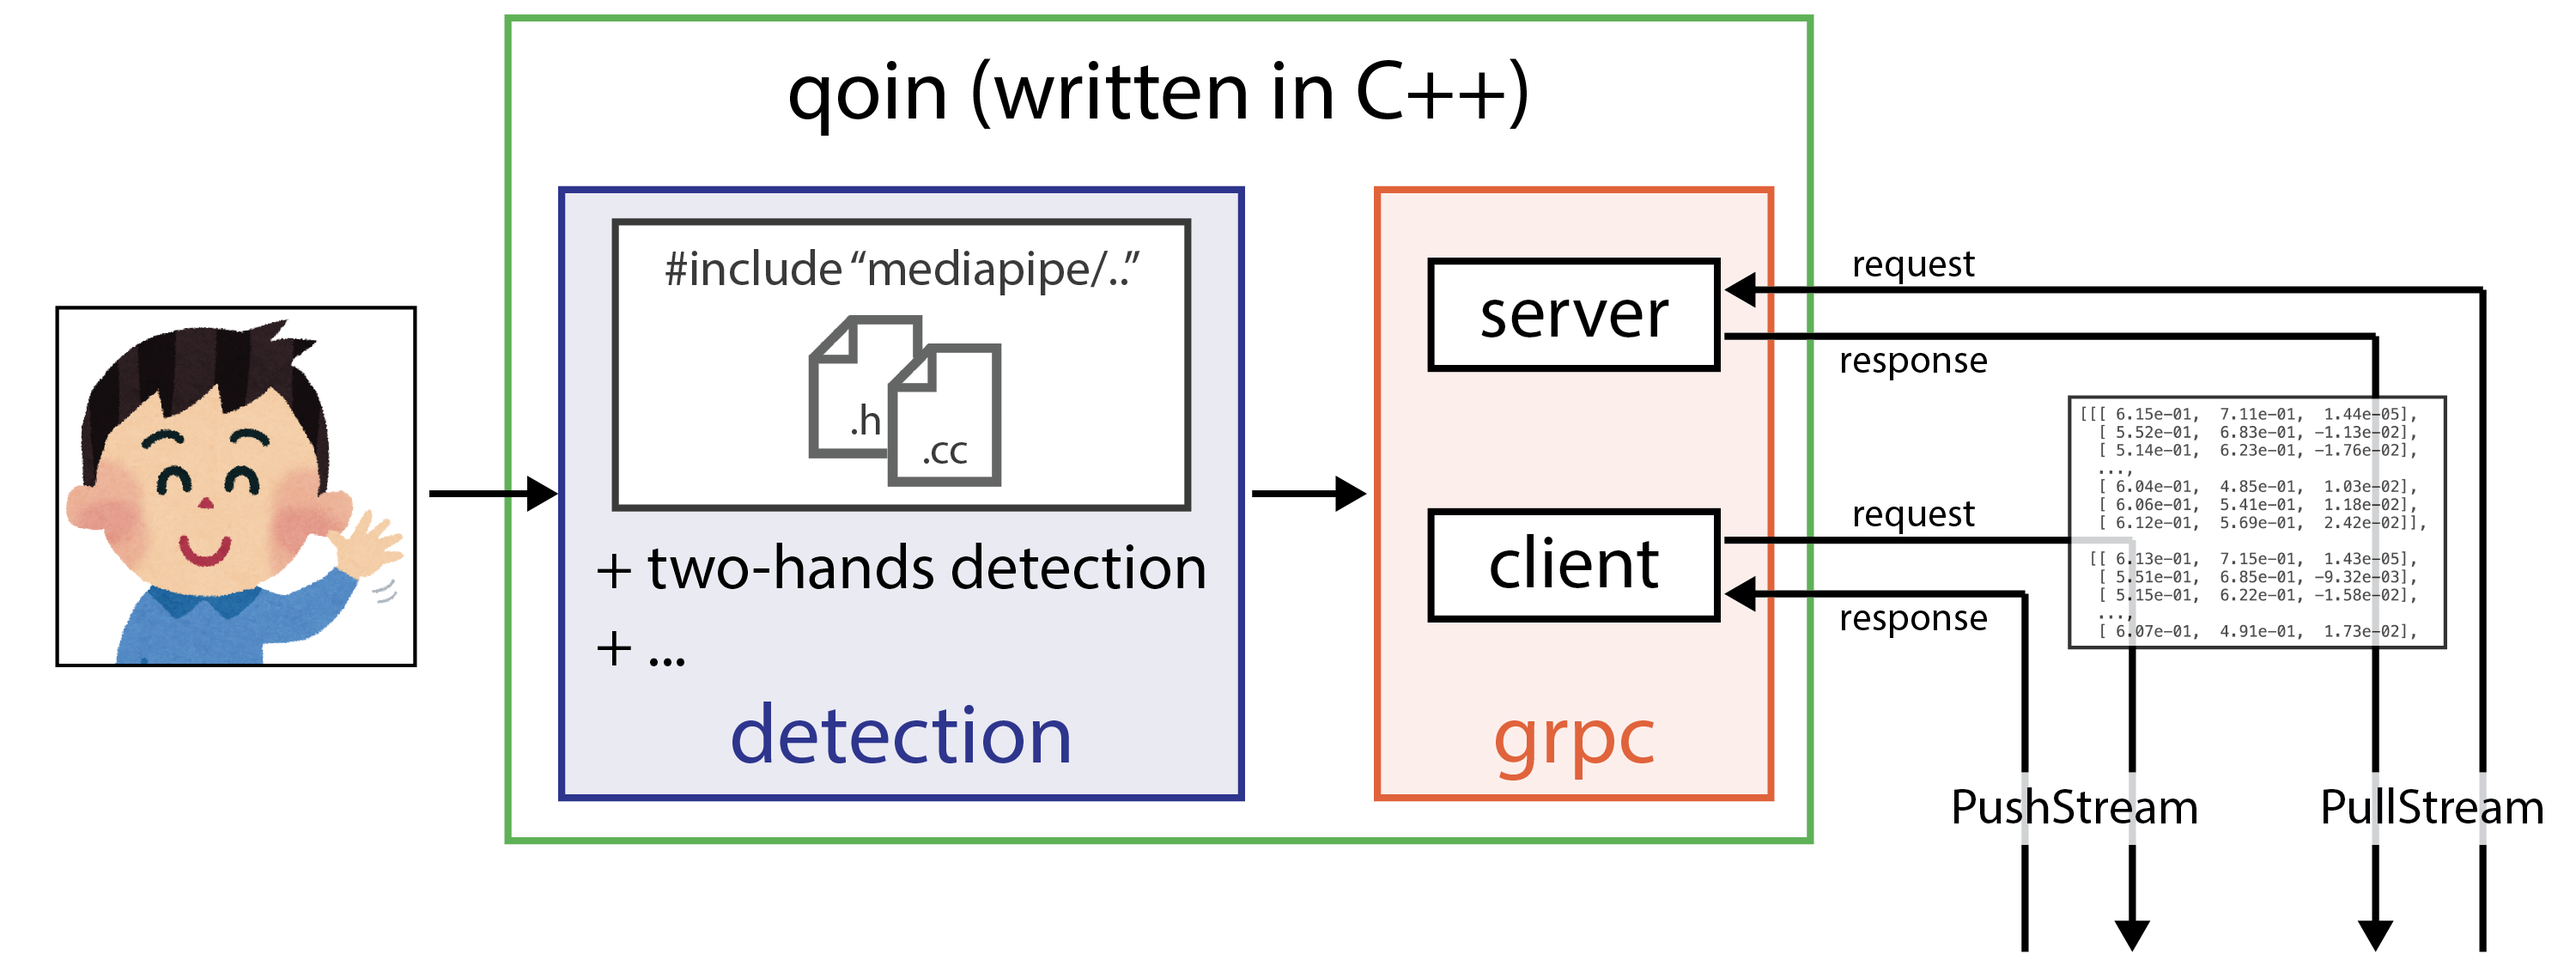
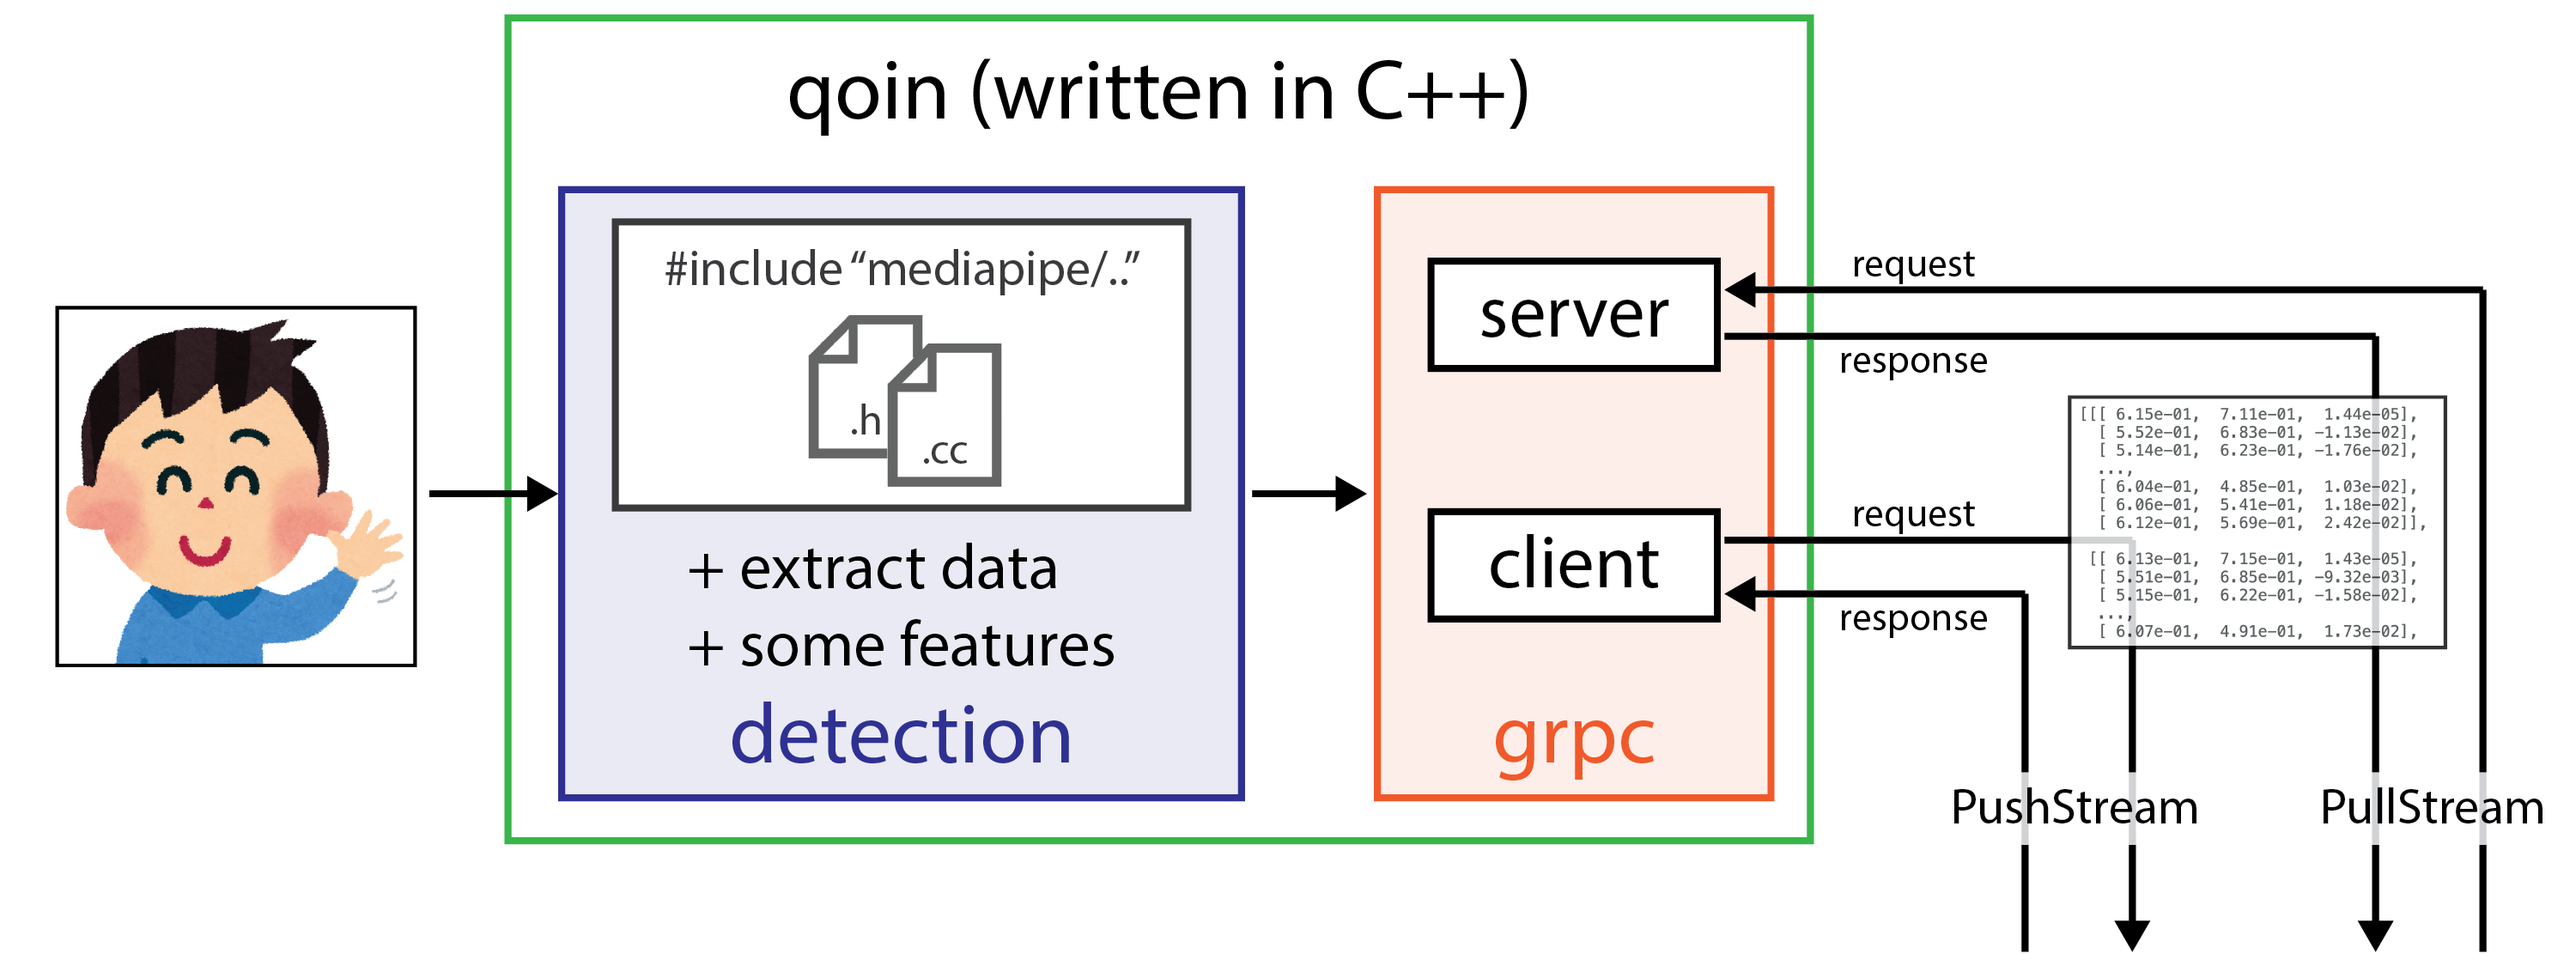
Fix small

diff --git a/src/components/Product.vue b/src/components/Product.vue
@@ -11,8 +11,8 @@
           </div>
           <div class="column is-three-quarters">
             <h3>qoin</h3>
-            Webカメラの映像から手や顔を検出し、検出データをgRPCで他のアプリケーションへ送信するアプリケーション<br/>
-            検出にはgoogle/mediapipeを利用し、両手検出などの追加機能を実装した<br/>
+            Webカメラの映像から手や顔を検出し、検出データをgRPCで他へ送信するアプリケーション<br/>
+            検出にはgoogle/mediapipeを利用し、データを抽出する処理などを追加した<br/>
             データ送信は、gRPC Serverを起動し、リクエストに対して検出データをレスポンスとして送る方法 (PullStream) と、
             別のgRPC Serverへリクエストとして検出データを送る方法 (PushStream) の2つに対応している<br/>
             mediapipeはC++で実装され、<a href="https://bazel.build/">bazel</a>でビルドされているため、qoinもC++で実装し、bazelでビルドした

diff --git a/src/components/Header.vue b/src/components/Header.vue
@@ -20,8 +20,13 @@
             <a class="navbar-item" href="https://hayashikun.com/geekten20">
               <h2>hayashikun.com/geekten20</h2>
             </a>
+          </div>
+          <div class="navbar-end">
             <a class="navbar-item" href="https://twitter.com/haya4p">
               <h2>Twitter - @haya4p</h2>
+            </a>
+            <a class="navbar-item" href="https://github.com/hayashikun">
+              <h2>Github - @hayashikun</h2>
             </a>
           </div>
         </div>
